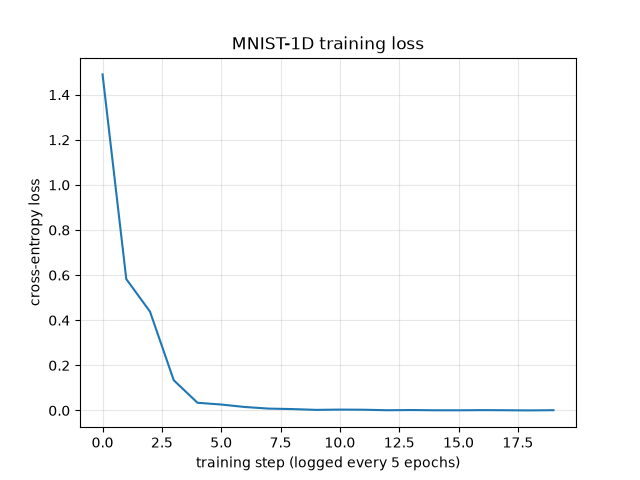
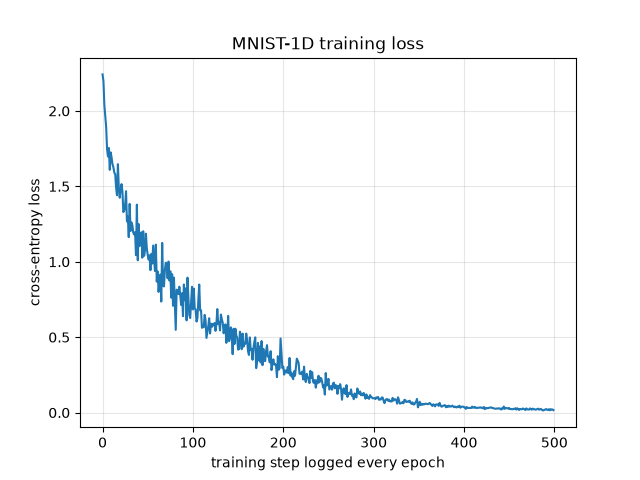
added comparision

diff --git a/compare.py b/compare.py
@@ -1,0 +1,170 @@
+# custom implementation
+from custom.loss import *
+from custom.model import *
+
+# dataset
+import mnist1d
+from mnist1d.data import make_dataset, get_dataset_args
+
+# pytorch implementation
+import torch, torch.nn as nn
+from torch.utils.data import TensorDataset, DataLoader
+from torch.optim.lr_scheduler import StepLR
+import numpy as np
+import matplotlib.pyplot as plt
+
+def get_data():
+    args = mnist1d.data.get_dataset_args()
+    args.num_samples = 10000
+    args.train_split = 0.8
+    args.corr_noise_scale = 0.25
+    args.iid_noise_scale = 2e-2
+    data = mnist1d.data.get_dataset(
+        args, path='./mnist1d_data.pkl', download=False)
+    return data
+
+
+def train_custom_model(x, y, x_test, y_test, epochs=150, batch_size=100, l_r=0.03, hidden=200):
+    mnist1d_model = [
+        Linear(40, hidden),
+        ReLU(),
+        Linear(hidden, hidden),
+        ReLU(),
+        Linear(hidden, 10)
+    ]
+
+    criterion = MultiClassCrossEntropyLoss(10)
+
+    loss_per_epoch = []
+    test_loss_per_epoch = []
+
+    train_accuracy_per_epoch = []
+    test_accuracy_per_epoch = []
+
+    for i in range(epochs):
+        # random selection, this is a crude implementation (i.e if the batch size is not divisible it won't work, but it is night time and I am lazy to find another solution sooo)
+        indices = np.random.choice(x.shape[0], x.shape[0], replace=False).reshape(-1, batch_size)
+        for idx, inds in enumerate(indices):
+            x_b, y_b = x[inds], y[inds]
+            out = forward(x_b, mnist1d_model)
+            probs = criterion.softmax(out)
+            criterion.backward(mnist1d_model, x_b, y_b, l_r)
+
+        #
+        train_loss = criterion.get_loss(mnist1d_model, x, y)
+        test_loss = criterion.get_loss(mnist1d_model, x_test, y_test)
+        #
+        accuracy_train = np.sum(forward(x, mnist1d_model).argmax(axis=1) == y) / len(y)
+        accuracy_test = np.sum(forward(x_test, mnist1d_model).argmax(axis=1) == y_test) / len(y_test)
+
+        loss_per_epoch.append(train_loss)
+        test_loss_per_epoch.append(test_loss)
+        train_accuracy_per_epoch.append(accuracy_train)
+        test_accuracy_per_epoch.append(accuracy_test)
+
+        print("="*10)
+        print(f"Finished training epoch : {i+1}")
+        print(f"Train loss: {train_loss}, Test loss: {test_loss}, Train Accuracy: {accuracy_train},  Test Accuracy: {accuracy_test}")
+
+    return loss_per_epoch, test_loss_per_epoch, train_accuracy_per_epoch, test_accuracy_per_epoch
+
+DEVICE = "cpu"
+def train_cnn(x, y, x_test, y_test, epochs=150, batch_size=100, l_r=0.03, momentum=0.9):
+    model = nn.Sequential(
+        nn.Conv1d(in_channels=1, out_channels=15, kernel_size=3, stride=2),
+        nn.ReLU(),
+        nn.Conv1d(in_channels=15, out_channels=15, kernel_size=3, stride=2),
+        nn.ReLU(),
+        nn.Conv1d(in_channels=15, out_channels=15, kernel_size=3, stride=2),
+        nn.ReLU(),
+        nn.Flatten(),
+        nn.Linear(60, 10)
+    ).to(DEVICE)
+
+    criterion = nn.CrossEntropyLoss()
+    optimizer = torch.optim.SGD(model.parameters(), lr=l_r, momentum=momentum)
+
+    # reshape to (N, 1, 40): Conv1d expects a channel dimension
+    train_dataset = TensorDataset(
+        torch.from_numpy(x).float().unsqueeze(1),
+        torch.from_numpy(y).long()
+    )
+    train_loader = DataLoader(train_dataset, batch_size=batch_size, shuffle=True)
+
+    x_test_t = torch.from_numpy(x_test).float().unsqueeze(1)
+    y_test_t = torch.from_numpy(y_test).long()
+
+    def full_eval(x_t, y_t):
+        model.eval()
+        with torch.no_grad():
+            out = model(x_t)
+            loss = criterion(out, y_t).item()
+            accuracy = (out.argmax(dim=1) == y_t).float().mean().item()
+        model.train()
+        return loss, accuracy
+
+    loss_per_epoch = []
+    test_loss_per_epoch = []
+
+    train_accuracy_per_epoch = []
+    test_accuracy_per_epoch = []
+
+    for i in range(epochs):
+        for x_b, y_b in train_loader:
+            optimizer.zero_grad()
+            loss = criterion(model(x_b), y_b)
+            loss.backward()
+            optimizer.step()
+
+        train_loss, accuracy_train = full_eval(
+            torch.from_numpy(x).float().unsqueeze(1), torch.from_numpy(y).long())
+        test_loss, accuracy_test = full_eval(x_test_t, y_test_t)
+
+        loss_per_epoch.append(train_loss)
+        test_loss_per_epoch.append(test_loss)
+        train_accuracy_per_epoch.append(accuracy_train)
+        test_accuracy_per_epoch.append(accuracy_test)
+
+        print("="*10)
+        print(f"Finished training epoch : {i+1}")
+        print(f"Train loss: {train_loss}, Test loss: {test_loss}, Train Accuracy: {accuracy_train},  Test Accuracy: {accuracy_test}")
+
+    return loss_per_epoch, test_loss_per_epoch, train_accuracy_per_epoch, test_accuracy_per_epoch
+
+
+data = get_data()
+x, y = data['x'], data['y']
+x_test, y_test = data['x_test'], data['y_test']
+
+loss_per_epoch, test_loss_per_epoch, train_accuracy_per_epoch, test_accuracy_per_epoch = train_custom_model(x, y, x_test, y_test)
+cnn_loss_per_epoch, cnn_test_loss_per_epoch, cnn_train_accuracy_per_epoch, cnn_test_accuracy_per_epoch = train_cnn(x, y, x_test, y_test)
+
+## loss on the left, accuracy on the right, custom model vs CNN
+fig, (ax1, ax2) = plt.subplots(1, 2, figsize=(12, 4))
+
+epochs_axis = np.arange(1, len(loss_per_epoch) + 1)
+
+# color = model, linestyle = train/test
+ax1.plot(epochs_axis, loss_per_epoch,                  color="tab:blue",   label="custom (train)")
+ax1.plot(epochs_axis, test_loss_per_epoch,             color="tab:blue",   linestyle="--", label="custom (test)")
+ax1.plot(epochs_axis, cnn_loss_per_epoch,              color="tab:orange", label="CNN (train)")
+ax1.plot(epochs_axis, cnn_test_loss_per_epoch,         color="tab:orange", linestyle="--", label="CNN (test)")
+ax1.set_title("loss per epoch")
+ax1.set_xlabel("epoch")
+ax1.set_ylabel("loss")
+ax1.legend()
+
+ax2.plot(epochs_axis, train_accuracy_per_epoch,        color="tab:blue",   label="custom (train)")
+ax2.plot(epochs_axis, test_accuracy_per_epoch,         color="tab:blue",   linestyle="--", label="custom (test)")
+ax2.plot(epochs_axis, cnn_train_accuracy_per_epoch,    color="tab:orange", label="CNN (train)")
+ax2.plot(epochs_axis, cnn_test_accuracy_per_epoch,     color="tab:orange", linestyle="--", label="CNN (test)")
+ax2.set_title("accuracy per epoch")
+ax2.set_xlabel("epoch")
+ax2.set_ylabel("accuracy")
+ax2.legend()
+
+plt.tight_layout()
+plt.savefig("loss_curve.png", dpi=150)  # save BEFORE show: show() clears the figure after the window closes
+plt.show()
+
+##

diff --git a/custom/model.py b/custom/model.py
@@ -25,3 +25,11 @@ class ReLU:
         return np.maximum(x, 0)
     def backward(self, gradm, learning_rate):
         return gradm * (self.x_input > 0)
+
+def forward(x, model_layers):
+    assert all(isinstance(layer, (Linear, ReLU)) for layer in model_layers)
+    out = x
+    for layer in model_layers:
+        out = layer.forward(out)
+    return out
+

diff --git a/README.md b/README.md
@@ -1,7 +1,14 @@
 # MNIST-1D
+The repo contains a custom implementation of a Neural Network trained by the [MNIST-1D](https://arxiv.org/abs/2011.14439v4) dataset through numpy and its comparision with a CNN model in pytorch, as well as research into how I did MI (Mechanistic Interpertibility Analysis) on said CNN model
 
-[MNIST-1D](https://arxiv.org/abs/2011.14439v4) training Implementation through numpy.
-
+[MNIST-1D](https://arxiv.org/abs/2011.14439v4) training Implementation through numpy
+--
+# Plots
+## Custom Implementation, training loss only
 ![Loss](./Implementation-details/loss_curve.png)
----
+
 You can read the implementation details [here](./Implementation-details/main.pdf). The pdf is generated via typst.
+
+## Comparision with a CNN model
+![LossComp](loss_curve.png)
+---
